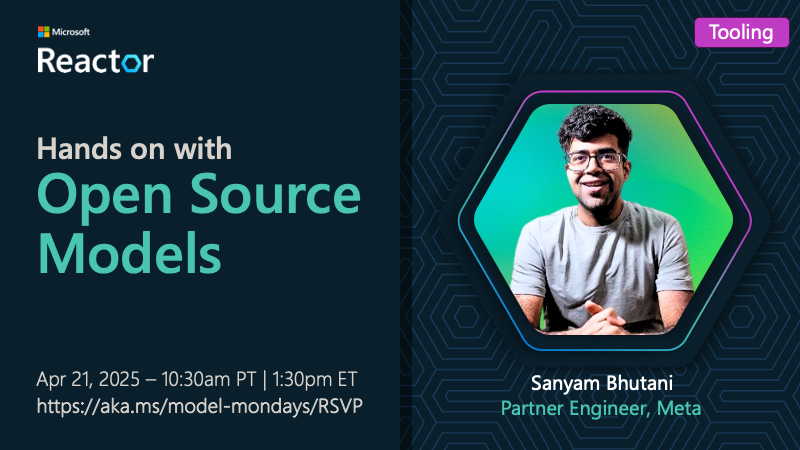
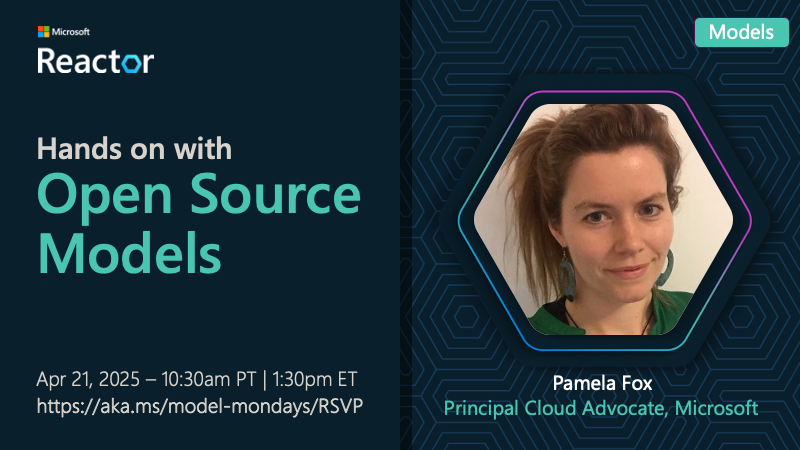
update / Week 7

diff --git a/README.md b/README.md
@@ -13,17 +13,16 @@ Join us, and take action to build your model IQ one week at a time!
 
 
 
-## 🗓 Register Now · S1E7· Apr 14, 2025
+## 🗓 Register Now · S1E7· Apr 21, 2025
 
-> In this episode, we’ll go hands on with local AI development by putting the spotlight on the AI Toolkit for Visual Studio Code. Join us as we speak to Rong Lu (Principal PM, Microsoft) to learn how this tool helps developers build intelligent apps using generative AI models deployed locally or in the cloud -with support for development, testing, fine-tuning and more.
+> In this episode, we’ll explore the intersection of open-source with AI model and application development with a spotlight on the Meta Llama 4 herd of models.
 
 
-- **[Click here](https://developer.microsoft.com/en-us/reactor/events/25357/) to register for the livestream · Monday, Apr 14**
+- **[Click here](https://developer.microsoft.com/en-us/reactor/events/25357/) to register for the livestream · Monday, Apr 21**
 - **[Click here](https://aka.ms/model-mondays/discord) to join Discord · Watch the #model-mondays channel for updates**
-- **[Click here](https://techcommunity.microsoft.com/blog/MachineLearningBlog/model-mondays-bringing-ai-home-with-local-development/4403619) to read the blog · Learn why local development matters**
-- **[Click here](https://code.visualstudio.com/docs/intelligentapps/overview) for the AI Toolkit docs · Try it out!**
+- **[Click here](https://techcommunity.microsoft.com/blog/MachineLearningBlog/model-mondays-bringing-ai-home-with-local-development/4403619) to learn about Llama 4 · Understand the core capabilities of this herd**
 
-[![Banner](./docs/season-01/img/S1E6-spotlight.png)](https://aka.ms/model-mondays/playlist)
+[![Banner](./docs/season-01/img/S1E7-spotlight.png)](https://aka.ms/model-mondays/playlist)
 
 <br/> 
 
@@ -40,16 +39,27 @@ Join us, and take action to build your model IQ one week at a time!
 | E01 · GitHub Models | Mar 10 | [**Play ▶**](https://developer.microsoft.com/reactor/events/25265/)| [GitHub Models](https://techcommunity.microsoft.com/blog/machinelearningblog/introducing-model-mondays-%E2%80%93-your-ai-model-power-up/4390773) | [PDF](https://speakerdeck.com/nitya/model-mondays-s1-e1-mar-10-2025)  | Mar 14  |
 | E02 ·  Reasoning Models| Mar 17 | [**Play ▶**](https://developer.microsoft.com/en-us/reactor/events/25266/) | [OpenAI, DeepSeek](./docs/season-01/ep-02.md)| [PDF](https://speakerdeck.com/nitya/model-mondays-s1-e2-hands-on-with-reasoning-models) | Mar 21 | [Sample](./labs/season-01/reasoning-models/README.md) |
 | E03 ·  Search + Retrieval | Mar 24 |  [**Play ▶**](https://developer.microsoft.com/en-us/reactor/events/25354/) |[Cohere Rerank](https://techcommunity.microsoft.com/blog/machinelearningblog/model-mondays-why-rerank-models-are-the-secret-sauce-of-high-quality-search/4396032) | [PDF](https://speakerdeck.com/nitya/model-mondays-s1-e3-hands-on-with-search-and-retrieval-models)  | Mar 28 |
-| E04 ·  Visual + Generative | Mar 31 |[**Play ▶**](https://developer.microsoft.com/en-us/reactor/events/25355/) |[Stable Diffusion](https://techcommunity.microsoft.com/blog/machinelearningblog/model-mondays-lights-prompts-action/4398576) |  [PDF](https://speakerdeck.com/nitya/model-mondays-s1-e4-hands-on-with-visual-generative-ai) | Apr 03 |
-| E05 ·  Fine-Tuning | Apr 07 |[**Play ▶**](https://developer.microsoft.com/en-us/reactor/events/25356/)  |[Mistral](https://techcommunity.microsoft.com/blog/machinelearningblog/model-mondays-teaching-your-model-new-tricks-with-fine-tuning/4401129) | [PDF](https://speakerdeck.com/nitya/model-mondays-s1-e4-hands-on-with-fine-tuning-models) | Apr 10| |
-| E06 ·  Local AI Development | Apr 14 |[**RSVP 🚀**](https://developer.microsoft.com/en-us/reactor/events/25357/)  | AI Toolkit (AITK) | - | [Apr 17](https://aka.ms/model-mondays/chat)‼ |
-| E07 ·  Open Source & AI | Apr 21 |[**RSVP 🚀**](https://developer.microsoft.com/en-us/reactor/events/25358/)  |Llama Stack (Meta)| - | Apr 21 |
+| E04 ·  Visual + Generative | Mar 31 |[**Play ▶**](https://developer.microsoft.com/en-us/reactor/events/25355/) |[Stable Diffusion](https://techcommunity.microsoft.com/blog/machinelearningblog/model-mondays-lights-prompts-action/4398576) |  [PDF](https://speakerdeck.com/nitya/model-mondays-s1-e4-hands-on-with-visual-generative-ai) | Apr 04 |
+| E05 ·  Fine-Tuning | Apr 07 |[**Play ▶**](https://developer.microsoft.com/en-us/reactor/events/25356/)  |[Mistral](https://techcommunity.microsoft.com/blog/machinelearningblog/model-mondays-teaching-your-model-new-tricks-with-fine-tuning/4401129) | [PDF](https://speakerdeck.com/nitya/model-mondays-s1-e4-hands-on-with-fine-tuning-models) | Apr 11| |
+| E06 ·  Local AI Development | Apr 14 |[**Play ▶**](https://developer.microsoft.com/en-us/reactor/events/25357/)  | [AI Toolkit (AITK)](https://techcommunity.microsoft.com/blog/machinelearningblog/model-mondays-bringing-ai-home-with-local-development/4403619) |  [PDF](https://speakerdeck.com/nitya/model-mondays-s1-e4-hands-on-with-visual-generative-ai) | Apr 18 |
+| E07 ·  Open Source & AI | Apr 21 |[**RSVP 🚀**](https://developer.microsoft.com/en-us/reactor/events/25358/)  | Llama 4 (Meta)| - |[Apr 25](https://aka.ms/model-mondays/chat)‼|
 | E08 ·  Forecasting Models | Apr 28 |[**RSVP 🚀**](https://developer.microsoft.com/en-us/reactor/events/25359/)  | Nixtla TimeGEN | - | Apr 28 |
 | | |
 
 <br/>
 
-## S1E6 · Fine-Tuning Models  
+## S1E06 ·Local AI Development
+
+> **[Click here](https://www.youtube.com/watch?v=iCPl693s3dA) to watch the replay**
+
+> In this episode, we’ll go hands on with local AI development by putting the spotlight on the AI Toolkit for Visual Studio Code. Join us as we speak to Rong Lu (Principal PM, Microsoft) to learn how this tool helps developers build intelligent apps using generative AI models deployed locally or in the cloud -with support for development, testing, fine-tuning and more.
+
+[![Banner](./docs/season-01/img/S1E6-spotlight.png)](https://www.youtube.com/watch?v=MgIfvEEZN7o)
+
+
+<br/>
+
+## S1E05 · Fine-Tuning Models  
 
 > **[Click here][(https://www.youtube.com/watch?v=iCPl693s3dA) to watch the replay**
 
